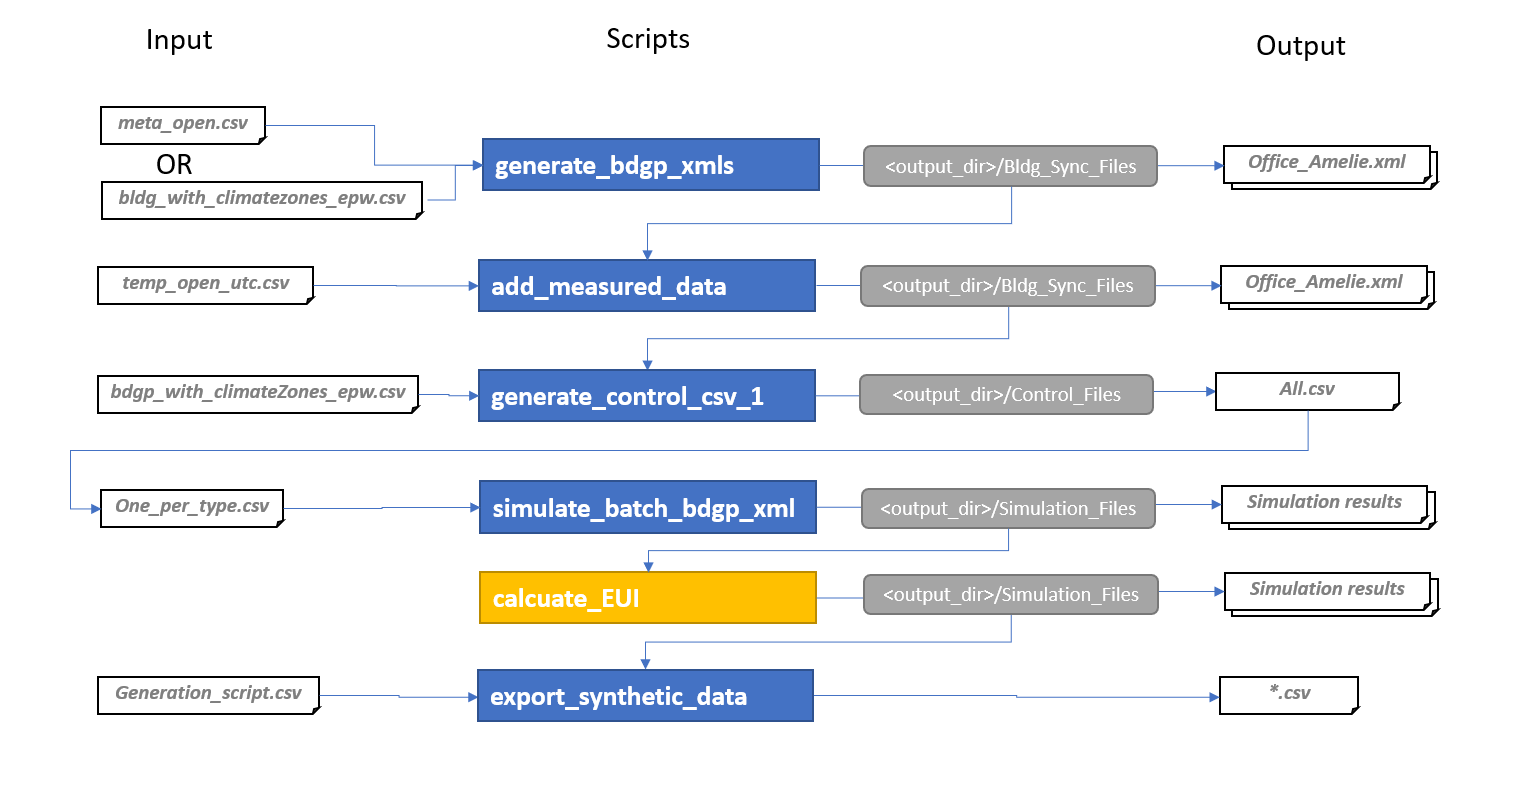
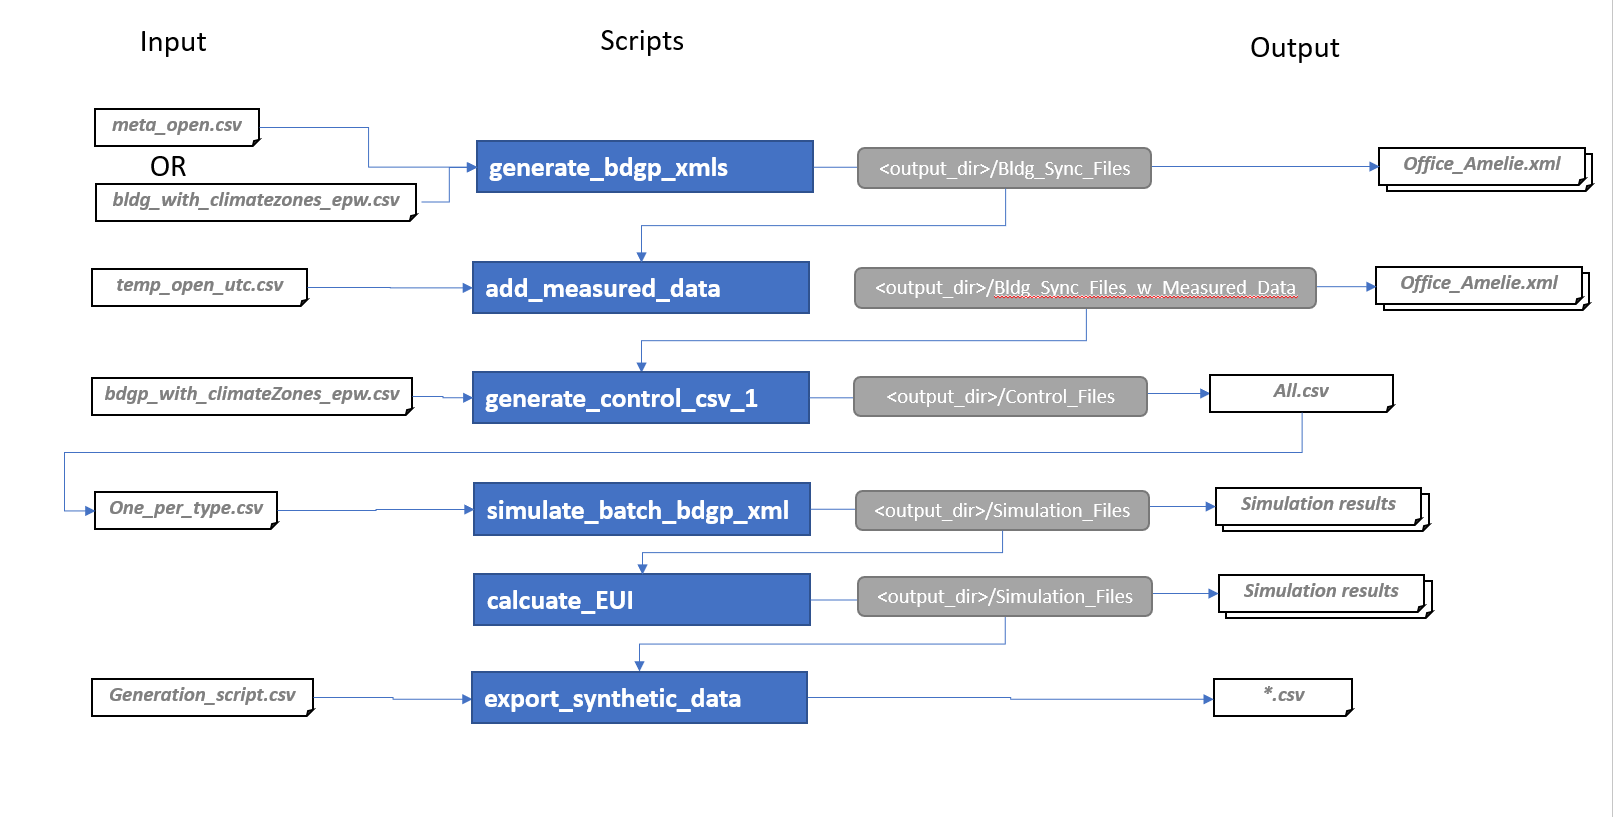
update readme #23 and change lodging type

diff --git a/scripts/bdgp_to_buildingsync.rb b/scripts/bdgp_to_buildingsync.rb
@@ -99,7 +99,7 @@ def get_occupancy_classification(feature)
   when 'College Classroom'
     result = 'Office'
   when 'Dormitory'
-    result = 'Lodging'
+    result = 'MidriseApartment'
   when 'College Laboratory'
     result = 'Office'
   else

diff --git a/README.md b/README.md
@@ -19,7 +19,7 @@ The following figure contains an overview of the scripts and input as well as ou
 
 ![alt text](ScriptOverview.PNG)
 
-## Convert CSV Data to BuildingSync XML
+## Step 1: Generate BuildingSync XML from csv data
 
 Run the following command to generate BuildingSync XMLs from CSV data:
 
@@ -31,22 +31,13 @@ This script is designed to work with the metadata `meta_open.csv` from the [Buil
 
 *Note*: Do not commit generated BuildingSync XMLs to this repo.  Do not commit the CSV data to the repo either.\
 
-## Simulate BuildingSync XML file (one)
-Run the following command to translate one BuildingSync XML to OSM and simulate:
+## Step 2: Add measured data to BuildingSync 
 
-``` bundle exec rake simulate_bdgp_xml path/to/xml/file ```
+Run the following command to add measured monthly electricity data to the BuildingSync XMLs generated in step 1:
 
-## Simulate BuildingSync XML file (batch of files)
+``` bundle exec rake add_measured_data path/to/csv/file/with/measured/data path/to/dir/for/resulting/xml/files```
 
-Run the following command to translate BuildingSync XMLs to OSMs/OSWs and run all related simulations:
-
-``` bundle exec rake simulate_batch_bdgp_xml path/to/csv/file ```
-
-In this case the CSV file contains the name of the BuildingSync file, the Standard to use and the weather file in comma separated format.
-
-The generated simulation files will be put in the NAME_OF_OUTPUT_DIR/Simulation_Files directory.
-
-#### Generate the csv file
+## Step 3: Generate the control csv file
 
 The following script will generate a csv file with all BuildingSync files found in the NAME_OF_OUTPUT_DIR/Bldg_Sync_Files directory. 
 
@@ -56,7 +47,30 @@ The first argument is required and should be the path to the BuildingSync files
 The other three arguments are optional. The 2nd one can set the standard (ASHRAE 90.1 or T24), 
 the 3rd and forth can also use actual weather files based on the related csv file and a path to the weather files
 
-## Export data using the synthetic exporter
+
+## Step 4.1: Simulate BuildingSync XML file (one)
+Run the following command to translate one BuildingSync XML to OSM and simulate:
+
+``` bundle exec rake simulate_bdgp_xml path/to/xml/file ```
+
+## Step 4.2: Simulate BuildingSync XML file (batch of files)
+
+Run the following command to translate BuildingSync XMLs to OSMs/OSWs and run all related simulations:
+
+``` bundle exec rake simulate_batch_bdgp_xml path/to/csv/file ```
+
+In this case the CSV file contains the name of the BuildingSync file, the Standard to use and the weather file in comma separated format.
+
+The generated simulation files will be put in the NAME_OF_OUTPUT_DIR/Simulation_Files directory.
+
+## Step 5: Calculate EUI and other parameters
+
+Run the following command to calculate Actual EUI, Modeled EUI, CVRMSE, and NMBE from measured and simulated monthly electricity data to the BuildingSync XMLs
+
+``` bundle exec rake add_calculate_measure_data path/to/csv/file/with/measured/data path/to/dir/with/simulation/results```
+
+
+## Step 6: Export data using the synthetic exporter
 
 The following script will export data according to the instructions in the csv file. 
 
